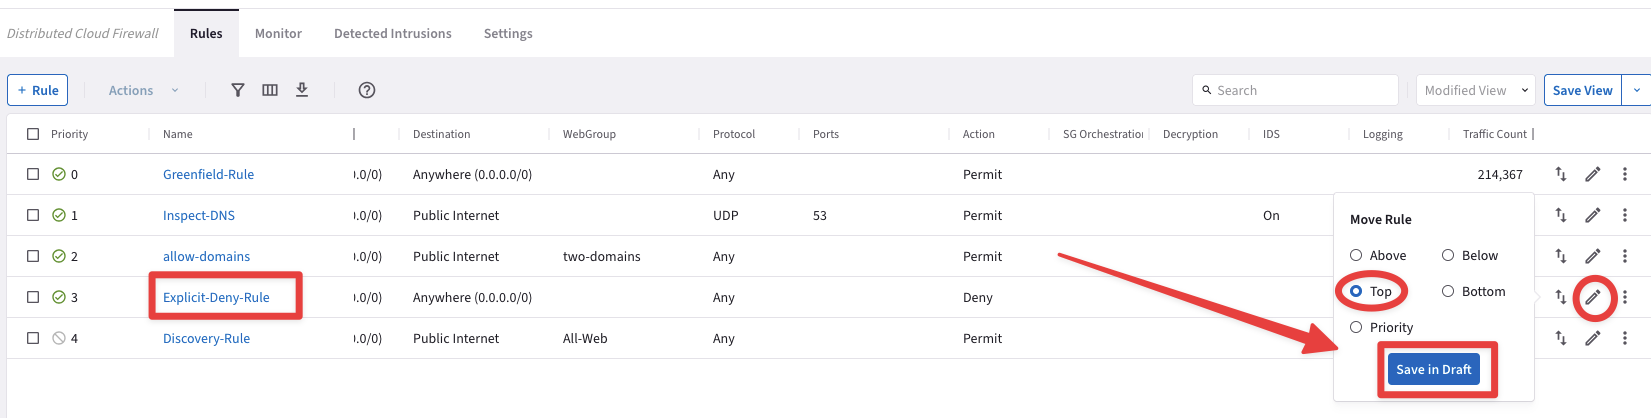
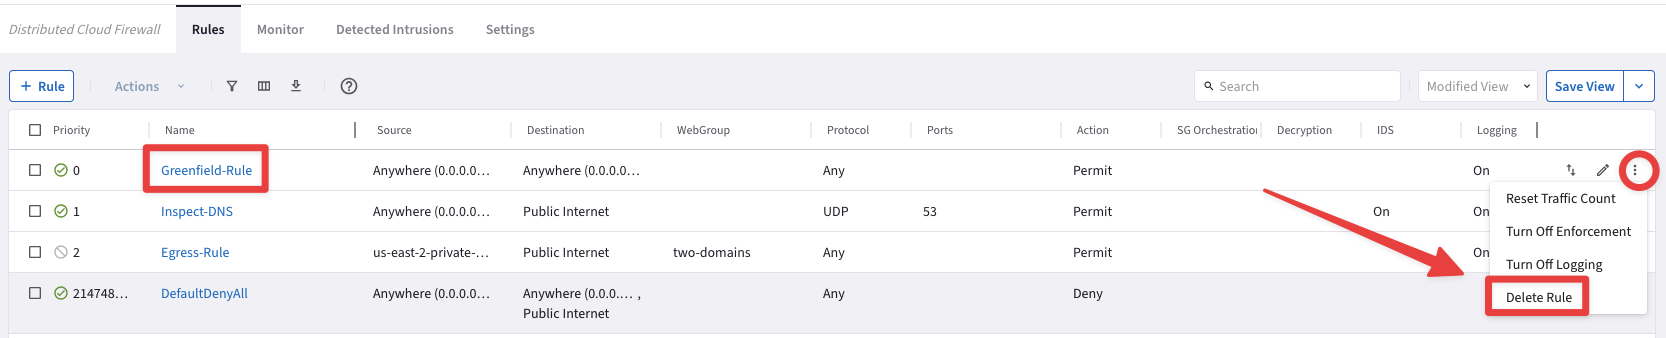
update for pro

diff --git a/ace_pro/docs/lab10.md b/ace_pro/docs/lab10.md
@@ -229,12 +229,12 @@ The previous outcomes confirm undoubtetly that the connectivity is working smoot
 ## 4. DCF Rules Creation
 ### 4.1. Build a Zero Trust  Network Architecture
 
-First and foremost, let's move the `Explicit-Deny-Rule` at the very top of the list of your DCF rules.
+First and foremost, let's delete the `Greenfield-Rule` at the very top of the list of your DCF rules.
 
 ```{tip}
-Go to **CoPilot > Security > Distributed Cloud Firewall > Rules (default)**, click on the the `"two arrows"` icon on the righ-hand side of the `Explicit-Deny-Rule` and choose *`"Move Rule"`* at the very **Top**. 
+Go to **CoPilot > Security > Distributed Cloud Firewall > Rules (default)**, click on the the `"two arrows"` icon on the righ-hand side of the `Greenfield-Rule` and choose *`"Delete Rule"`*. 
 
-Then click on **Save in Draft**.
+Then click on **Commit**.
 ```
 
 ```{figure} images/lab10-newedit.png
@@ -242,10 +242,10 @@ Then click on **Save in Draft**.
 height: 150px
 align: center
 ---
-Move the rule
+Delete the Greenfield-Rule
 ```
 
-Then **Commit** your change!
+- Repeat the same action for both, the `"Inspection-Rule"` and the `"Egress-Rule"`:
 
 ```{figure} images/lab10-commit.png
 ---
